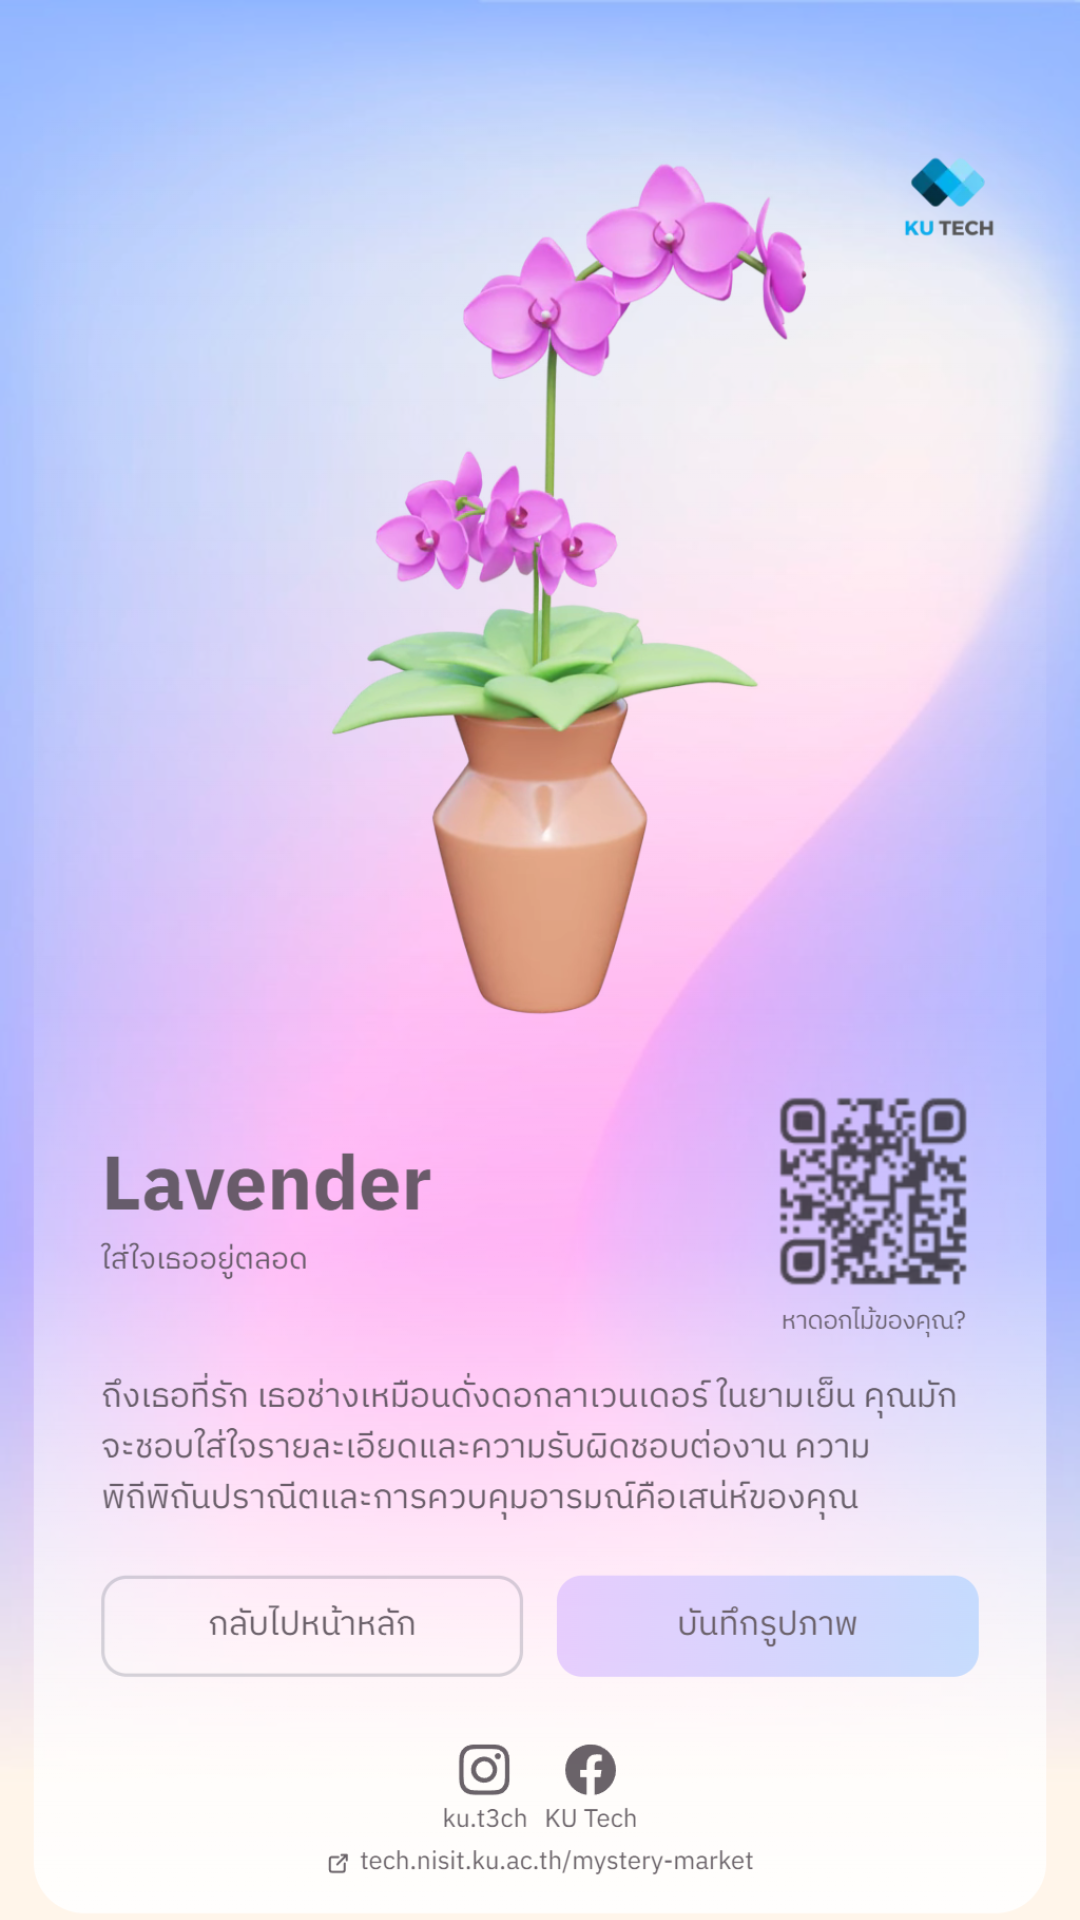
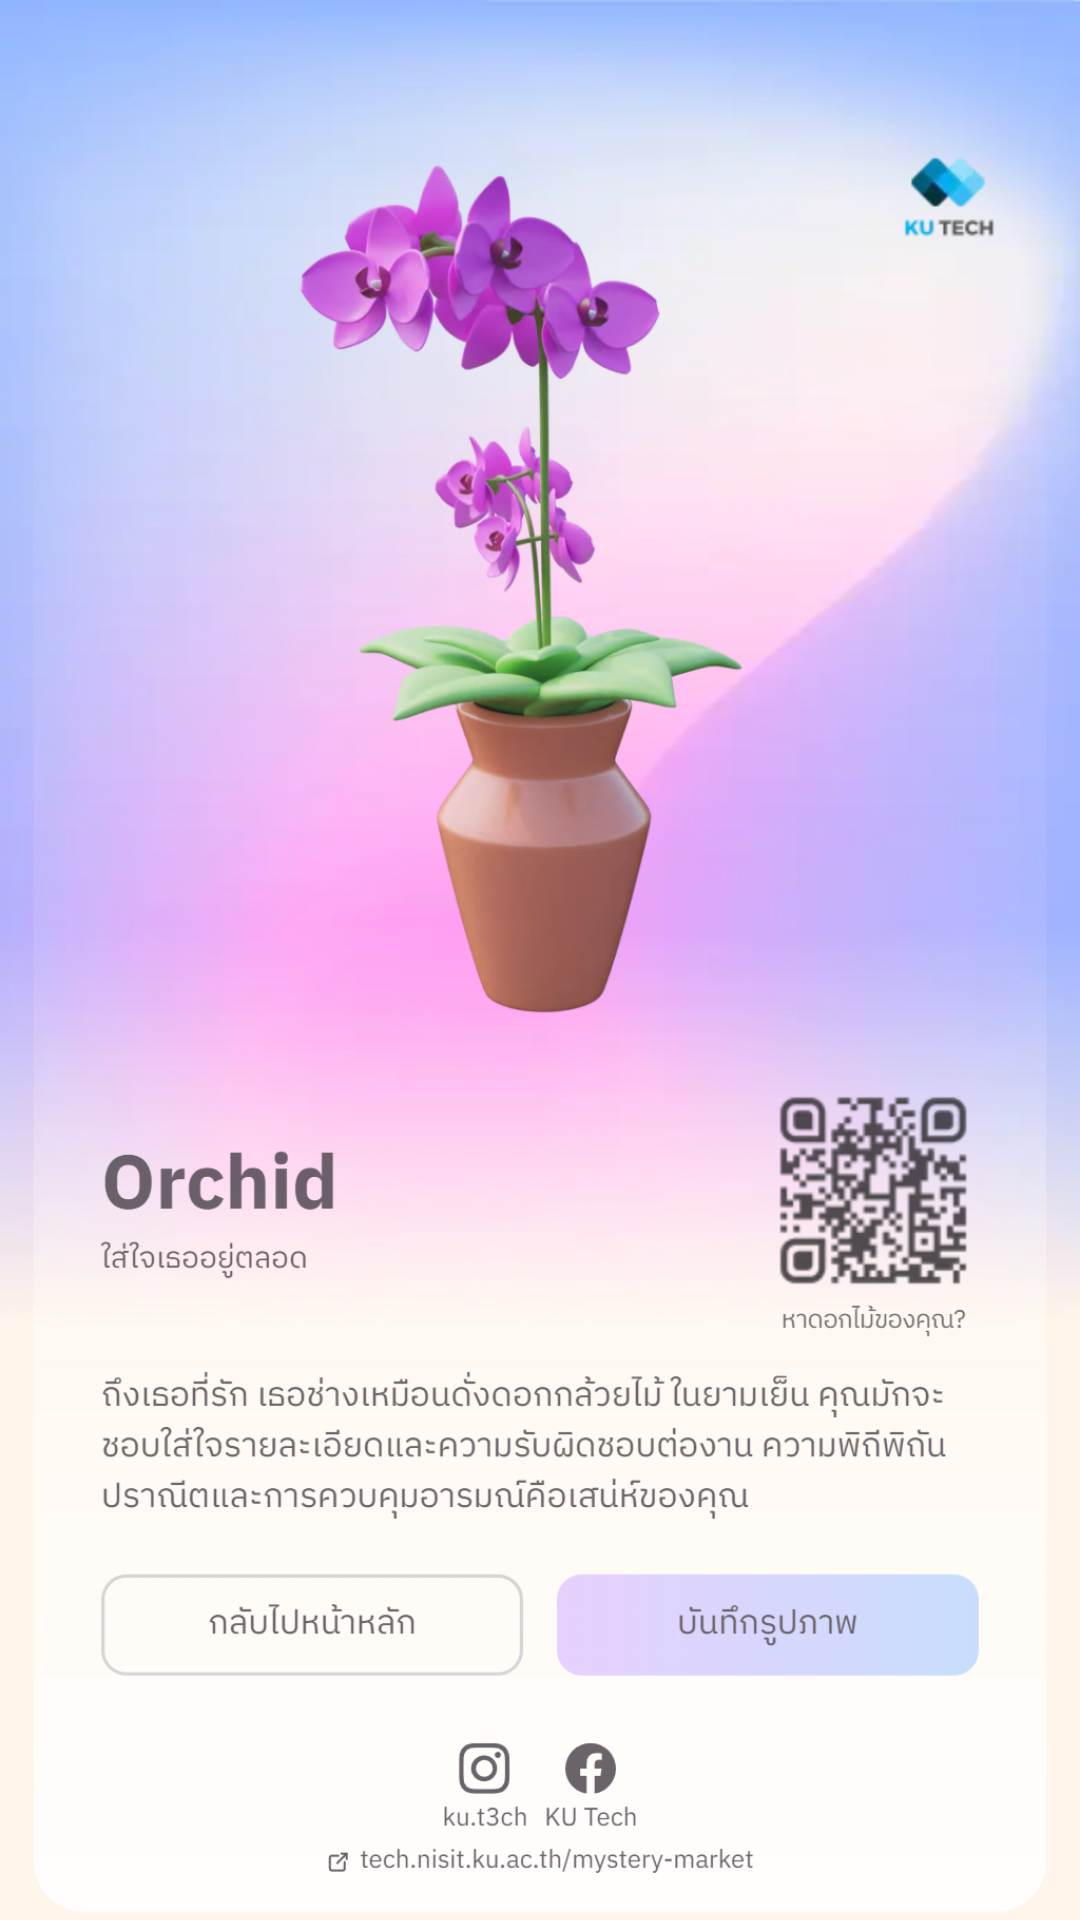
change lavender to orchid

diff --git a/src/app/flowers/[slug]/page.tsx b/src/app/flowers/[slug]/page.tsx
@@ -32,10 +32,10 @@ const Title: Record<TitleKeys, TitleInfo> = {
   },
   lavender: {
     name: "lavender",
-    title: "Lavender",
+    title: "Orchid",
     subtitle: "ใส่ใจเธออยู่ตลอด",
     description:
-      "ถึงเธอที่รัก เธอช่างเหมือนดั่งดอกลาเวนเดอร์ ในยามเย็น คุณมักจะชอบใส่ใจรายละเอียดและความรับผิดชอบต่องาน ความพิถีพิถันปราณีตและการควบคุมอารมณ์คือเสน่ห์ของคุณ",
+      "ถึงเธอที่รัก เธอช่างเหมือนดั่งดอกกล้วยไม้ ในยามเย็น คุณมักจะชอบใส่ใจรายละเอียดและความรับผิดชอบต่องาน ความพิถีพิถันปราณีตและการควบคุมอารมณ์คือเสน่ห์ของคุณ",
   },
   rose: {
     name: "rose",
